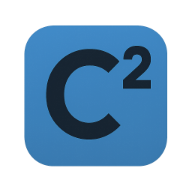
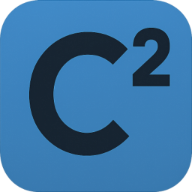
fix: updated login and jwt files for less strict checks to fit expected usage
updated to improved sized default logos and favicon.

diff --git a/app/api/auth/login/route.ts b/app/api/auth/login/route.ts
@@ -85,8 +85,8 @@ export async function POST(request: NextRequest): Promise<NextResponse> {
         name: "auth_token",
         value: result.token,
         httpOnly: true,
-        secure: process.env.NODE_ENV === "production",
-        sameSite: "strict",
+        // secure: process.env.NODE_ENV === "production",
+        sameSite: "lax",
         path: "/",
         maxAge: 24 * 60 * 60, // 24 hours
       });

diff --git a/app/lib/auth/jwt.ts b/app/lib/auth/jwt.ts
@@ -28,8 +28,8 @@ export async function setAuthCookie(token: string): Promise<void> {
     name: COOKIE_NAME,
     value: token,
     httpOnly: true,
-    secure: process.env.NODE_ENV === "production",
-    sameSite: "strict",
+    // secure: process.env.NODE_ENV === "production",
+    sameSite: "lax",
     path: "/",
     maxAge: 24 * 60 * 60, // 24 hours in seconds
   });
